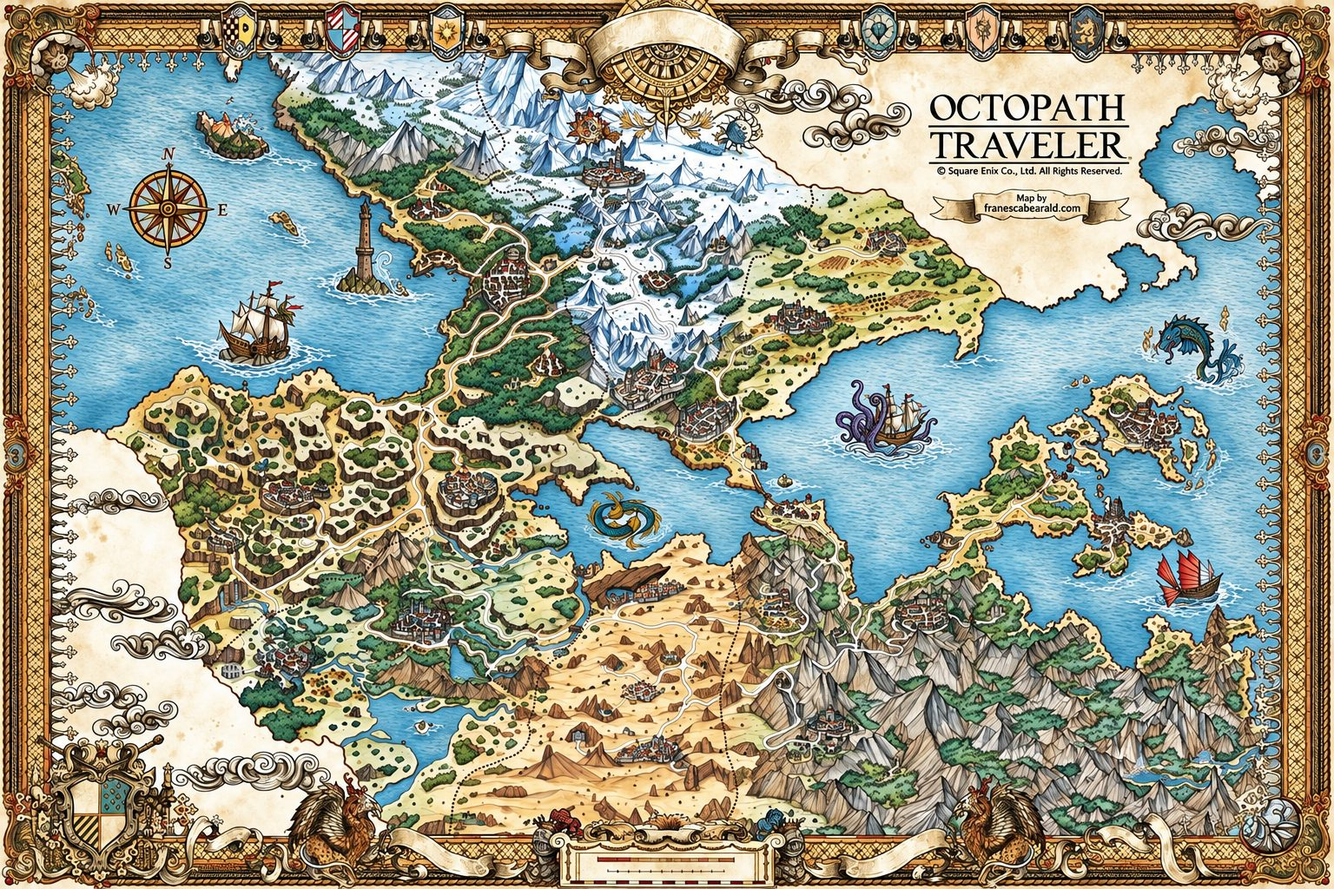
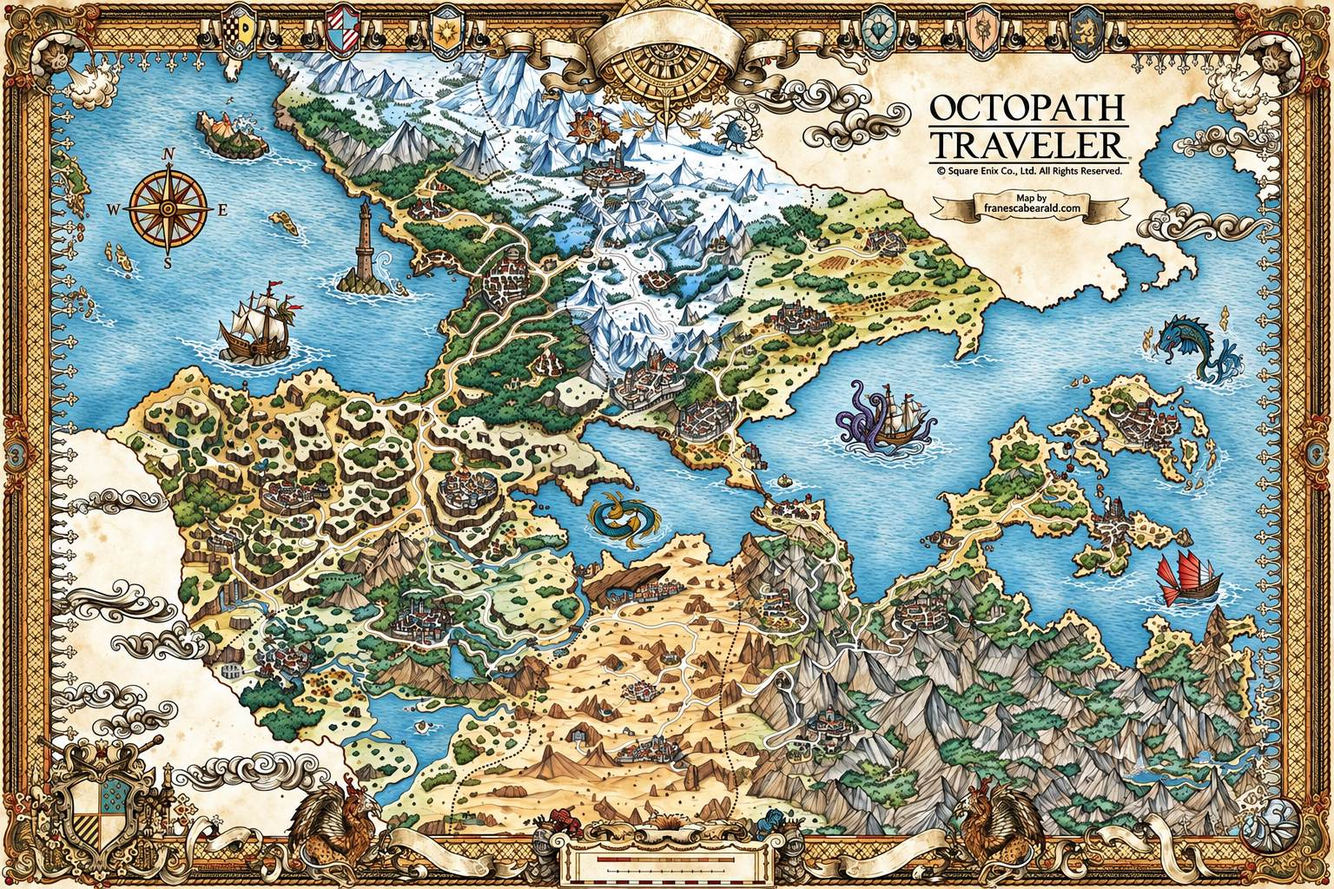
chore: remove route stubs; lighter map image for phones
- Stub.tsx no longer referenced now that all Dev A routes exist
- map: 485 KB JPG (was 634), 153 KB 768px variant via <picture> for
  phones, fetchPriority=high on the LCP image. Lighthouse mobile /map
  perf 70 -> 76, a11y 100

diff --git a/src/components/map/WorldMap.tsx b/src/components/map/WorldMap.tsx
@@ -90,26 +90,34 @@ export default function WorldMap() {
       >
         <TransformComponent wrapperStyle={{ width: "100%", height: "100%" }}>
           <div className="relative select-none" style={{ width: MAP_WIDTH, height: MAP_HEIGHT }}>
-            {/* eslint-disable-next-line @next/next/no-img-element */}
-            <img
-              src="/images/map/orsterra.jpg"
-              alt="Map of Orsterra"
-              width={MAP_WIDTH}
-              height={MAP_HEIGHT}
-              draggable={false}
-              className="map-dim absolute inset-0 h-full w-full"
-            />
-            {/* eslint-disable-next-line @next/next/no-img-element */}
-            <img
-              ref={litRef}
-              src="/images/map/orsterra.jpg"
-              alt=""
-              aria-hidden
-              width={MAP_WIDTH}
-              height={MAP_HEIGHT}
-              draggable={false}
-              className="map-lit pointer-events-none absolute inset-0 h-full w-full"
-            />
+            {/* Phones get the 768px file; the layout box stays MAP_WIDTH x MAP_HEIGHT either way. */}
+            <picture>
+              <source media="(max-width: 767px)" srcSet="/images/map/orsterra-768.jpg" />
+              { }
+              <img
+                src="/images/map/orsterra.jpg"
+                alt="Map of Orsterra"
+                width={MAP_WIDTH}
+                height={MAP_HEIGHT}
+                draggable={false}
+                fetchPriority="high"
+                className="map-dim absolute inset-0 h-full w-full"
+              />
+            </picture>
+            <picture>
+              <source media="(max-width: 767px)" srcSet="/images/map/orsterra-768.jpg" />
+              { }
+              <img
+                ref={litRef}
+                src="/images/map/orsterra.jpg"
+                alt=""
+                aria-hidden
+                width={MAP_WIDTH}
+                height={MAP_HEIGHT}
+                draggable={false}
+                className="map-lit pointer-events-none absolute inset-0 h-full w-full"
+              />
+            </picture>
 
             {regions.map((r) => (
               <div
